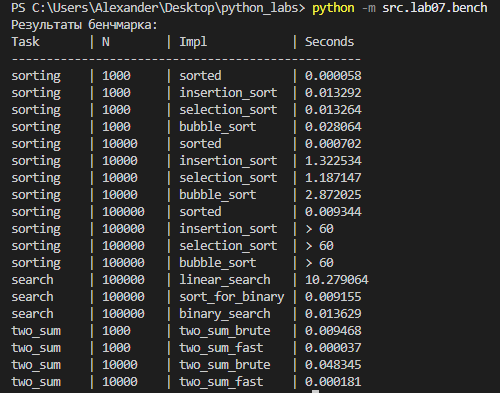
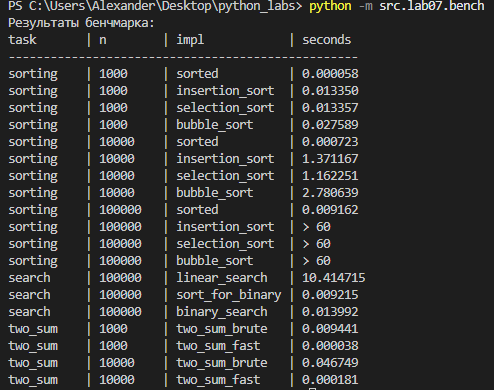
ahh almost almost

Changed region(s): [[0.0, 0.0, 1.0, 1.0]]

diff --git a/src/lab07/bench.py b/src/lab07/bench.py
@@ -52,11 +52,11 @@ def main():
         t = timeit.timeit(lambda: two_sum_fast(ts_data, target), number=1)
         csv_rows.append(("two_sum", n, "two_sum_fast", f"{t:.6f}"))
 
-    header = ("Task", "N", "Impl", "Seconds")
+    header = ("task", "n", "impl", "seconds")
     write_csv(csv_rows, "data/lab07/bench.csv", header=header)
 
     print("Результаты бенчмарка:")
-    print(f"{'Task':<10} | {'N':<8} | {'Impl':<15} | {'Seconds':<10}")
+    print(f"{'task':<10} | {'n':<8} | {'impl':<15} | {'seconds':<10}")
     print("-" * 50)
     for task, n, impl, seconds in csv_rows:
         print(f"{task:<10} | {n:<8} | {impl:<15} | {seconds:<10}")

diff --git a/src/lab07/README.md b/src/lab07/README.md
@@ -1,0 +1,321 @@
+# ЛР7 — Поиск, сортировка и измерение времени
+
+## Задание А: Поиск (search.py)
+
+### `linear_search`
+
+```python
+def linear_search(nums, x) -> int:
+    """
+    Линейный поиск числа x в списке nums. Возвращаем индекс первого элемента, равного x.
+    Если такой элемент отсутствует, возвращаем -1.
+    """
+    for i in range(len(nums)):
+        if nums[i] == x:
+            return i
+    return -1
+```
+
+
+### `binary_search`
+
+```python
+def binary_search(sorted_nums, x) -> int:
+    """
+    Возвращаем индекса любого элемента в списке sorted_nums, равного x.
+    Если такой элемент отсутствует, возвращаем -1.
+    Список должен быть изначально отсортирован.
+    На неотсортированном списке результат не определён.
+    """
+    lo = 0
+    hi = len(sorted_nums) - 1
+    while lo <= hi:
+        mid = (hi+lo) // 2
+        if sorted_nums[mid] == x: return mid
+        elif sorted_nums[mid] < x: lo = mid + 1
+        else: hi = mid - 1
+    return -1
+```
+
+
+### `two_sum_brute`
+
+```python
+def two_sum_brute(nums, target) -> tuple[int, int] | None:
+    """
+    Ищем два индекса (i, j) таких, что nums[i] + nums[j] == target и i < j.
+    Возвращаем tuple(i, j) при наличии такой пары, иначе None.
+    Поиск двойным проходом по списку.
+    """
+    for i in range(len(nums) - 1):
+        for j in range(i+1, len(nums)):
+            if nums[i] + nums[j] == target:
+                return (i, j)
+    return None
+```
+
+
+### `two_sum_fast`
+
+```python
+def two_sum_fast(nums, target) -> tuple[int, int] | None:
+    """
+    Ищем два индекса (i, j) таких, что nums[i] + nums[j] == target и i < j.
+    Возвращаем tuple(i, j) при наличии такой пары, иначе None.
+    Поиск через словарь.
+    """
+    seen = {}
+    for i in range(len(nums)):
+        if nums[i] in seen:
+            return (seen[nums[i]], i)
+        else:
+            seen[target - nums[i]] = i
+    return None
+```
+
+
+## Задание B: Сортировка (sorting.py)
+
+### `bubble_sort`
+
+```python
+def bubble_sort(nums) -> list[int]:
+    """
+    Новый список, отсортированный по возрастанию.
+    Исходный список не меняется.
+    Пузырьковый метод.
+    """
+    new = nums.copy()
+    for i in range(len(new)):
+        swap = False
+        for j in range(len(new) - i - 1):
+            if new[j] > new[j+1]:
+                new[j], new[j+1] = new[j+1], new[j]
+                swap = True
+        if not swap:
+            break
+    return new
+```
+
+
+### `insertion_sort`
+
+```python
+def insertion_sort(nums) -> list[int]:
+    """
+    Новый список, отсортированный по возрастанию.
+    Исходный список не меняется.
+    Вставочный метод.
+    """
+    new = nums.copy()
+    for i in range(1, len(new)):
+        j = i - 1
+        a = new[i]
+        while j >= 0 and new[j] > a:
+            new[j+1] = new[j]
+            j -= 1
+        new[j+1] = a
+    return new
+```
+
+
+### `selection_sort`
+
+```python
+def selection_sort(nums) -> list[int]:
+    """
+    Новый список, отсортированный по возрастанию.
+    Исходный список не меняется.
+    Выборочный метод.
+    """
+    new = nums.copy()
+    for i in range(len(new)):
+        k1 = i
+        for j in range(k1 + 1, len(new)):
+            if new[j] < new[k1]:
+                k1 = j
+        new[i], new[k1] = new[k1], new[i]
+    return new
+```
+
+
+## Задание С: Сравнение с эталоном (check.py)
+
+```python
+import random
+from src.lab07.search import linear_search, binary_search, two_sum_brute, two_sum_fast
+from src.lab07.sorting import bubble_sort, insertion_sort, selection_sort
+
+
+def check_sorting(fn, trials: int = 100) -> None:
+    """
+    Проверяет функцию сортировки fn против эталонного sorted() на случайных списках.
+    """
+    for i in range(trials):
+        n = random.randint(0, 50)
+        nums = [random.randint(-100, 100) for i in range(n)]
+        original = list(nums)
+        result = fn(nums)
+        assert result == sorted(nums), f"{fn.__name__} ошиблась на {nums}: {result}"
+        assert nums == original, f"{fn.__name__} изменила исходный список"
+
+def check_search(fn, trials: int = 100) -> None:
+    """
+    Проверяет функцию fn на поиск индекса на случайных списках.
+    """
+    if fn == "linear_search":
+        for i in range(trials):
+            n = random.randint(0, 50)
+            nums = [random.randint(-100, 100) for i in range(n)]
+            original = list(nums)
+            result = fn(nums)
+            assert result == nums.index(), f"{fn.__name__} ошиблась на {nums}: {result}"
+            assert nums == original, f"{fn.__name__} изменила исходный список"
+
+    elif fn == "binary_search":
+        for i in range(trials):
+            n = random.randint(0, 50)
+            nums = sorted([random.randint(-100, 100) for i in range(n)])
+            original = list(nums)
+            result = fn(nums)
+            assert result == nums.index(), f"{fn.__name__} ошиблась на {nums}: {result}"
+            assert nums == original, f"{fn.__name__} изменила исходный список"
+
+
+def check_two_sum(trials: int = 100):
+    """
+    Проверяет two_sum_brute и two_sum_fast на правильность поиска индексов (i, j); i < j, при отсутствии - None.
+    """
+    for i in range(trials):
+        n = random.randint(0, 50)
+        nums = sorted([random.randint(-100, 100) for i in range(n)])
+        target = random.randint(-50, 50)
+        res_brute = two_sum_brute(nums, target)
+        res_fast = two_sum_fast(nums, target)
+        if res_brute is None or res_fast is None:
+            continue
+        else:
+            assert nums[res_brute[0]] + nums[res_brute[1]] == target, f"Функция two_sum_brute ошиблась на {nums}: {nums[res_brute[0]] + nums[res_brute[1]]} отличается от {target}"
+            assert nums[res_fast[0]] + nums[res_fast[1]] == target, f"Функция two_sum_fast ошиблась на {nums}: {nums[res_fast[0]] + nums[res_fast[1]]} отличается от {target}"
+
+if __name__=="__main__":
+    random.seed(42)
+
+    for fn in (bubble_sort, insertion_sort, selection_sort):
+        amount_sorting = random.randint(50, 100)
+        check_sorting(fn, amount_sorting)
+        print(f"Функция {fn.__name__} прошла все {amount_sorting} проверок.")
+
+    for fn in (linear_search, binary_search):
+        amount_search = random.randint(50, 100)
+        check_search(fn, amount_search)
+        print(f"Функция {fn.__name__} прошла все {amount_search} проверок.")
+
+    amount_two_sum = random.randint(50, 100)
+    check_two_sum(amount_two_sum)
+    print(f"Функции two_sum_brute и two_sum_fast прошли все {amount_two_sum} проверок.")
+```
+
+![](../../images/lab07/check_console.png)
+
+
+## Задание D: Бенчмарк (bench.py)
+
+```python
+import random
+import timeit
+from src.lab04.io_txt_csv import write_csv
+from src.lab07.sorting import bubble_sort, selection_sort, insertion_sort
+from src.lab07.search import linear_search, binary_search, two_sum_brute, two_sum_fast
+
+
+def main():
+    """
+    Запускаем бенчмарки всех алгоритмов, выводим сводную таблицу в консоль и сохраняем её в CSV-файл.
+    """
+    random.seed(42)
+    csv_rows: list[tuple[str, int, str, str]] = []
+
+    sizes = [1000, 10_000, 100_000]
+    for n in sizes:
+        data = [random.randint(-1_000_000, 1_000_000) for i in range(n)]
+
+        t = timeit.timeit(lambda: sorted(data), number=1)
+        csv_rows.append(("sorting", n, "sorted", f"{t:.6f}"))
+
+        for name, fn in [("insertion_sort", insertion_sort), ("selection_sort", selection_sort), ("bubble_sort", bubble_sort)]:
+            if n <= 10_000:
+                t = timeit.timeit(lambda: fn(data), number=1)
+                csv_rows.append(("sorting", n, name, f"{t:.6f}"))
+            else:
+                csv_rows.append(("sorting", n, name, "> 60"))
+
+    search_data_size = 100_000
+    search_queries_count = 10_000
+    search_list = [random.randint(-1_000_000, 1_000_000) for _ in range(search_data_size)]
+    queries = [random.choice(search_list) for _ in range(search_queries_count)]
+
+    t = timeit.timeit(lambda: [linear_search(search_list, q) for q in queries], number=1)
+    csv_rows.append(("search", search_data_size, "linear_search", f"{t:.6f}"))
+
+    t = timeit.timeit(lambda: sorted(search_list), number=1)
+    csv_rows.append(("search", search_data_size, "sort_for_binary", f"{t:.6f}"))
+
+    search_list = sorted([random.randint(-1_000_000, 1_000_000) for _ in range(search_data_size)])
+    t = timeit.timeit(lambda: [binary_search(search_list, q) for q in queries], number=1)
+    csv_rows.append(("search", search_data_size, "binary_search", f"{t:.6f}"))
+
+    for n in [1_000, 10_000]:
+        ts_data = [random.randint(-1_000_000, 1_000_000) for _ in range(n)]
+        i, j = random.sample(range(n), 2)
+        target = ts_data[i] + ts_data[j]
+
+        t = timeit.timeit(lambda: two_sum_brute(ts_data, target), number=1)
+        csv_rows.append(("two_sum", n, "two_sum_brute", f"{t:.6f}"))
+
+        t = timeit.timeit(lambda: two_sum_fast(ts_data, target), number=1)
+        csv_rows.append(("two_sum", n, "two_sum_fast", f"{t:.6f}"))
+
+    header = ("Task", "N", "Impl", "Seconds")
+    write_csv(csv_rows, "data/lab07/bench.csv", header=header)
+
+    print("Результаты бенчмарка:")
+    print(f"{'Task':<10} | {'N':<8} | {'Impl':<15} | {'Seconds':<10}")
+    print("-" * 50)
+    for task, n, impl, seconds in csv_rows:
+        print(f"{task:<10} | {n:<8} | {impl:<15} | {seconds:<10}")
+
+
+if __name__ == "__main__":
+    main()
+```
+
+![](../../images/lab07/bench_console.png)
+
+
+## Таблица бенчмарка
+
+Взято из data/lab07/bench.csv.
+
+```
+task,n,impl,seconds
+sorting,1000,sorted,0.000058
+sorting,1000,insertion_sort,0.013292
+sorting,1000,selection_sort,0.013264
+sorting,1000,bubble_sort,0.028064
+sorting,10000,sorted,0.000702
+sorting,10000,insertion_sort,1.322534
+sorting,10000,selection_sort,1.187147
+sorting,10000,bubble_sort,2.872025
+sorting,100000,sorted,0.009344
+sorting,100000,insertion_sort,> 60
+sorting,100000,selection_sort,> 60
+sorting,100000,bubble_sort,> 60
+search,100000,linear_search,10.279064
+search,100000,sort_for_binary,0.009155
+search,100000,binary_search,0.013629
+two_sum,1000,two_sum_brute,0.009468
+two_sum,1000,two_sum_fast,0.000037
+two_sum,10000,two_sum_brute,0.048345
+two_sum,10000,two_sum_fast,0.000181
+```
